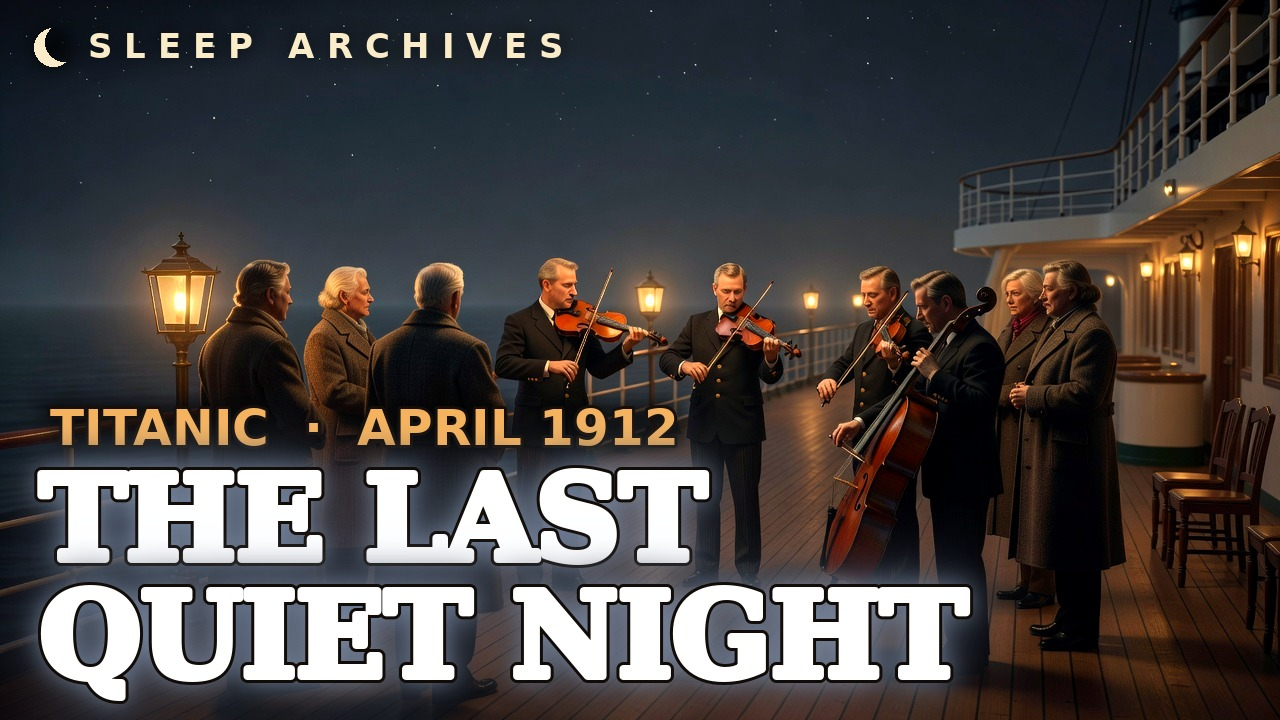
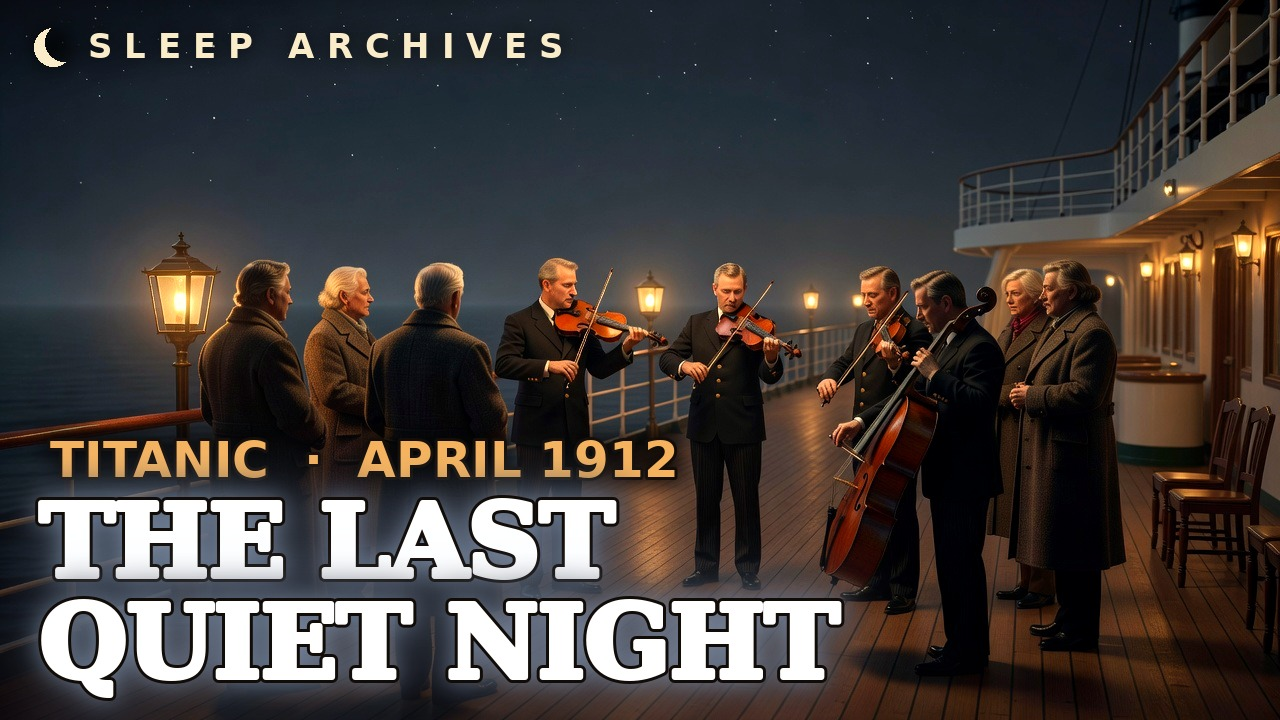
Thumbnail v2: keep text clear of YouTube's duration label
Claude-Session: https://claude.ai/code/session_01VaMphJrxfQvYbaTu5iLr2G

Changed region(s): [[0.0, 0.55, 0.7812, 0.9778]]

diff --git a/tools/make_thumbnail.py b/tools/make_thumbnail.py
@@ -29,6 +29,8 @@ NIGHT_GLOW = (190, 215, 255)  # pale moonlight halo around the title
 LABEL = "SLEEP DOCUMENTARY"  # fixed series label at the bottom of every thumbnail
 AMBER = (246, 178, 92)
 MOON = (250, 236, 200)
+# v2 text stays in the left two thirds: YouTube puts the duration label bottom-right.
+HOOK_W = int(1280 * 0.64)
 FONT_DIR = Path("/usr/share/fonts/truetype/dejavu")
 TITLE_FONT = FONT_DIR / "DejaVuSerif-Bold.ttf"
 SUB_FONT = FONT_DIR / "DejaVuSerif.ttf"
@@ -180,14 +182,14 @@ def make_v2(scene: Path, out: Path, hook: str, topic: str, glow: bool = True) ->
     d = ImageDraw.Draw(base)
     moon_logo(base, 34, 26)
 
-    lines = split_hook(d, hook.upper(), int(W * 0.88))
+    lines = split_hook(d, hook.upper(), HOOK_W)
     size = 170 if len(lines) == 1 else 116
-    font = min((fit_font(d, ln, TITLE_FONT, int(W * 0.9), size) for ln in lines),
+    font = min((fit_font(d, ln, TITLE_FONT, HOOK_W, size) for ln in lines),
                key=lambda f: f.size)
     line_h = font.getbbox("HG")[3] + 6
     y = H - 36 - line_h * len(lines)
     if topic:
-        tf = fit_font(d, topic.upper(), LABEL_FONT, int(W * 0.8), 50)
+        tf = fit_font(d, topic.upper(), LABEL_FONT, HOOK_W, 50)
         ty = y - tf.getbbox("HG")[3] - 4
         shadow = Image.new("L", base.size, 0)
         ImageDraw.Draw(shadow).text((50, ty), topic.upper(), font=tf, fill=255,

diff --git a/stories/YOUTUBE-STANDAARD.md b/stories/YOUTUBE-STANDAARD.md
@@ -160,7 +160,8 @@ relaxing history, sleep story, 432hz` + 4–6 onderwerp-tags.
   `stories/titanic/thumbnail-v2.jpg`, `stories/san-francisco-1906/thumbnail-v2.jpg`.
   - Ontwerp: linksboven klein het logo (maantje + SLEEP ARCHIVES); linksonder een kleine
     amberkleurige regel (plaats · jaar) en daaronder de **hook** heel groot, wit, extra dik.
-    Geen grote "SLEEP DOCUMENTARY"-balk meer: die ruimte is voor het beeld.
+    Geen grote "SLEEP DOCUMENTARY"-balk meer: die ruimte is voor het beeld. De tekst blijft
+    in de linker ± 2/3, want rechtsonder zet YouTube de videolengte.
   - **Hook**: 2–4 woorden die een gevoel of beleving geven, niet de hele titel. Bv.
     "Before the Ash", "The Last Quiet Night", "Old San Francisco", "Winter in a Viking Hut".
   - **Beeld**: warm en knus, met **mensen** in beeld (een figuur bij een lamp, vuur of
